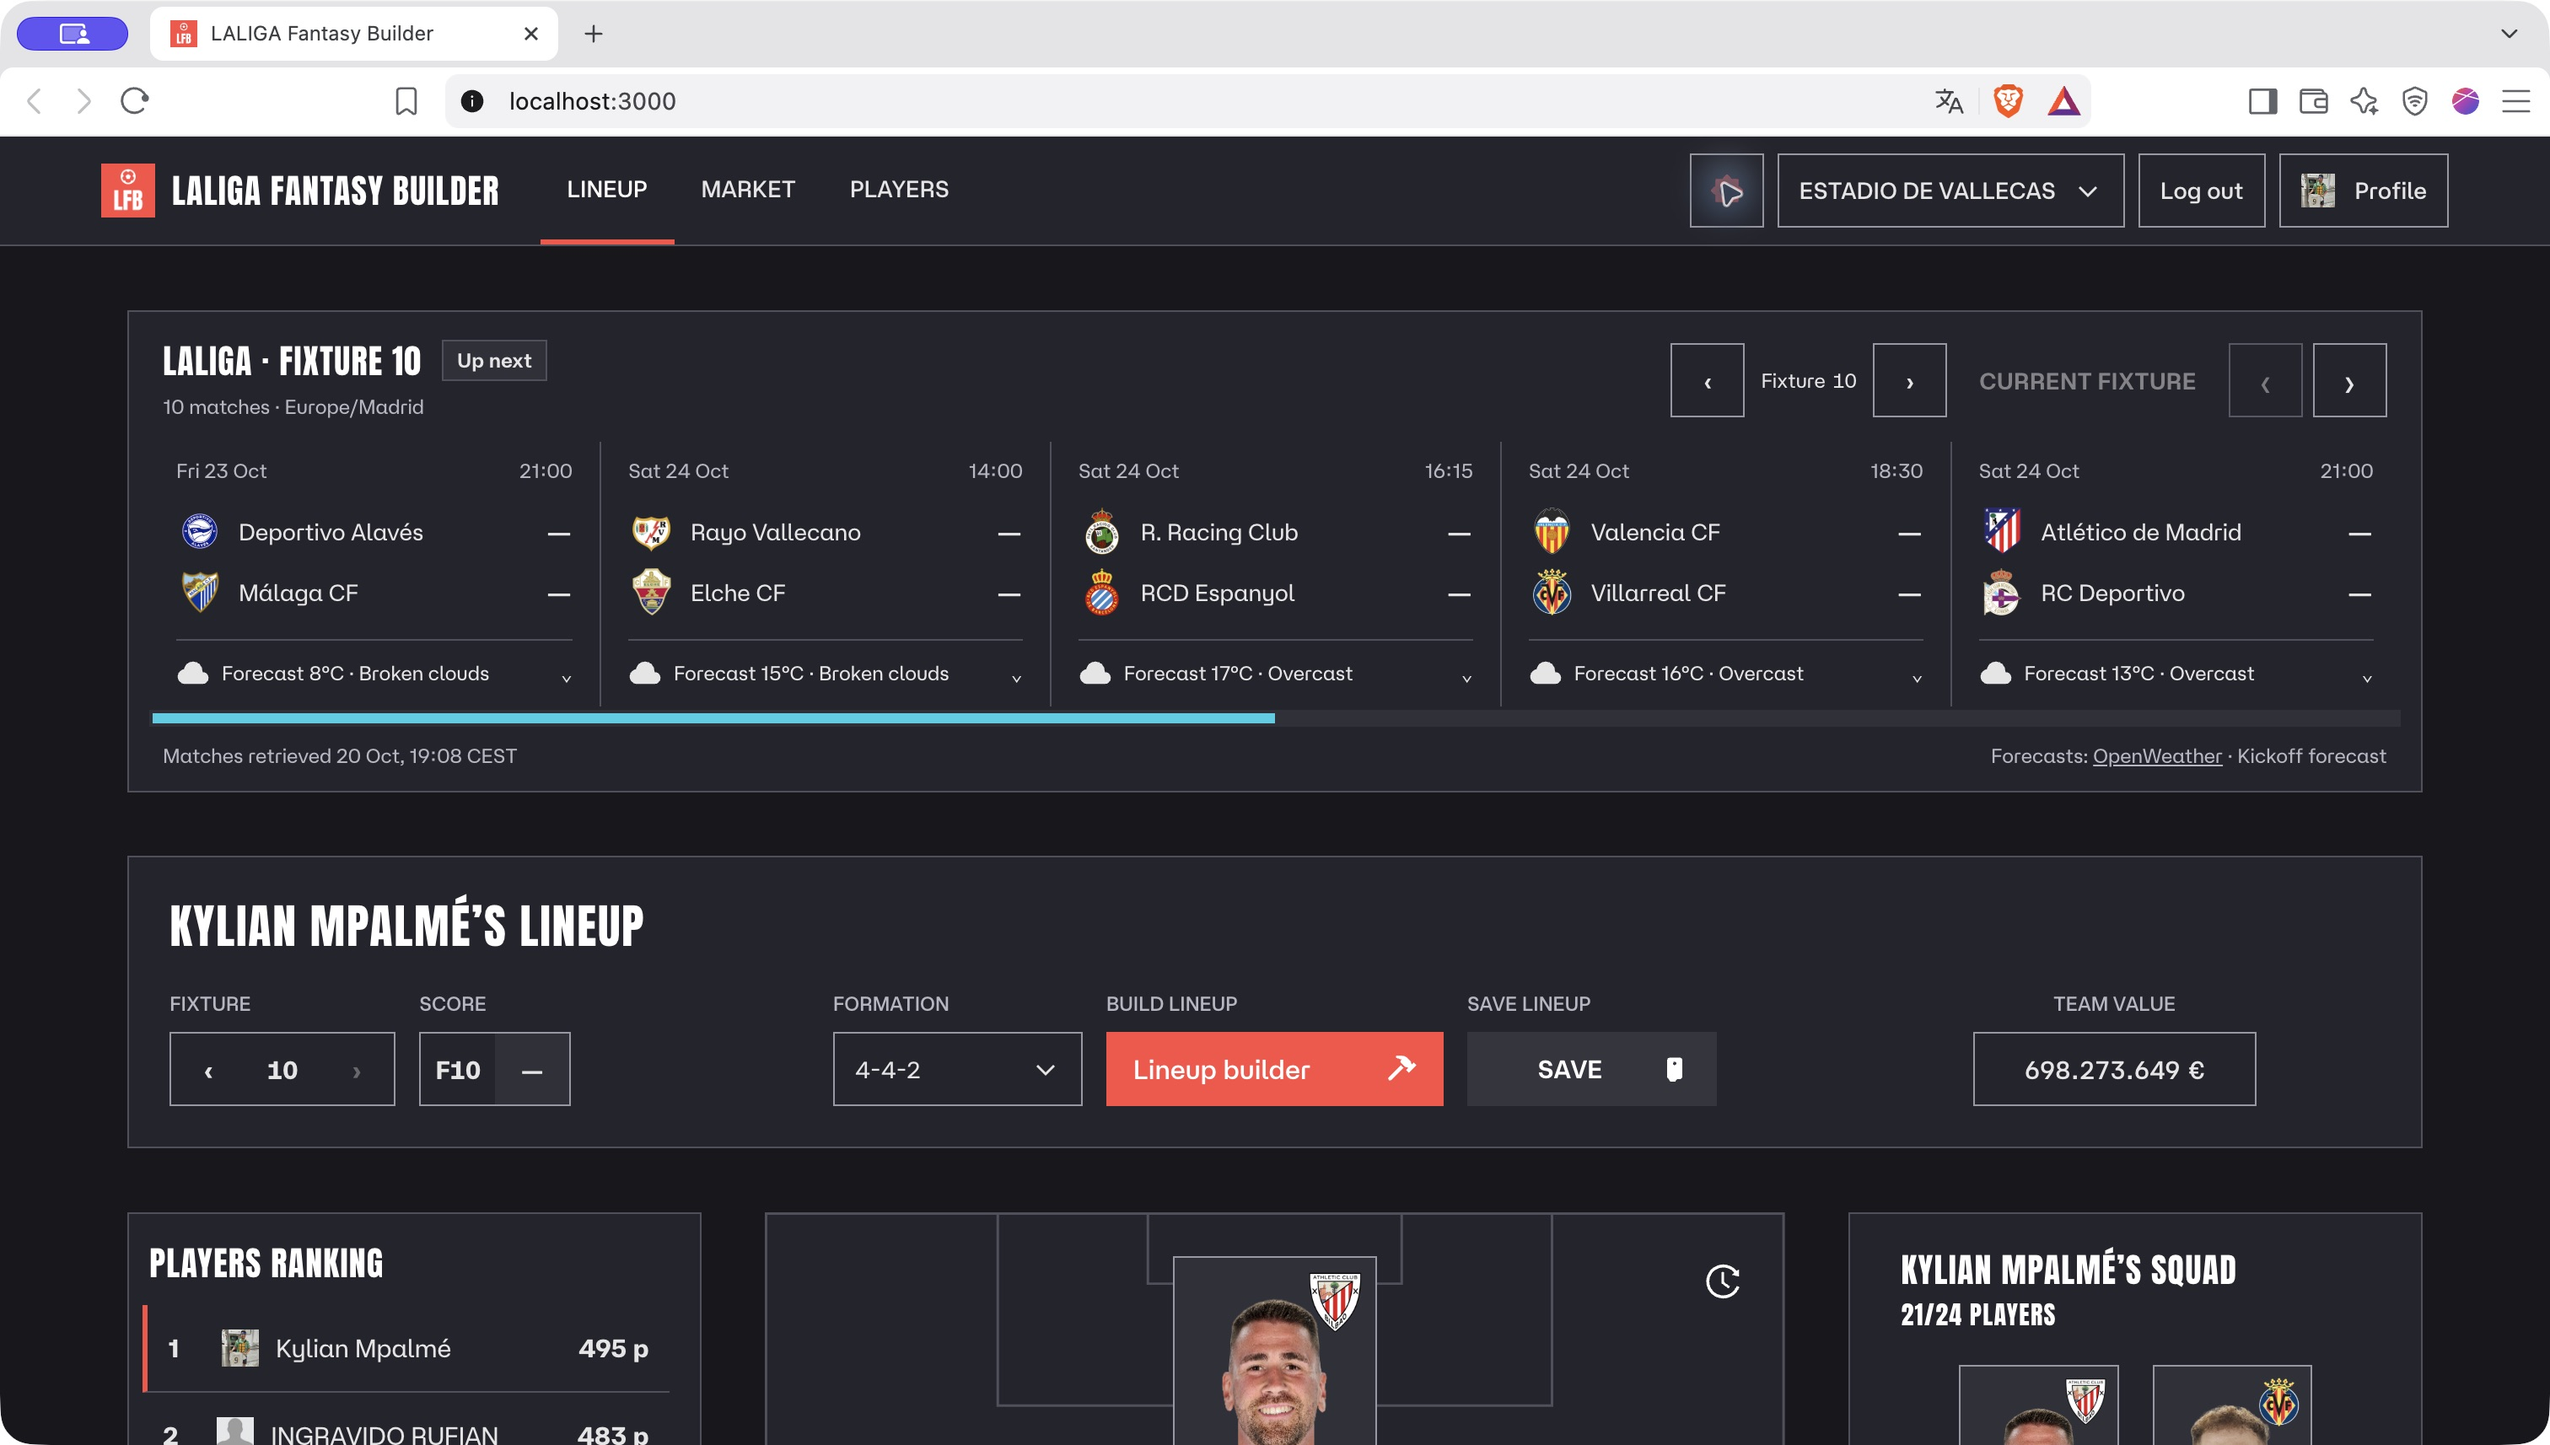
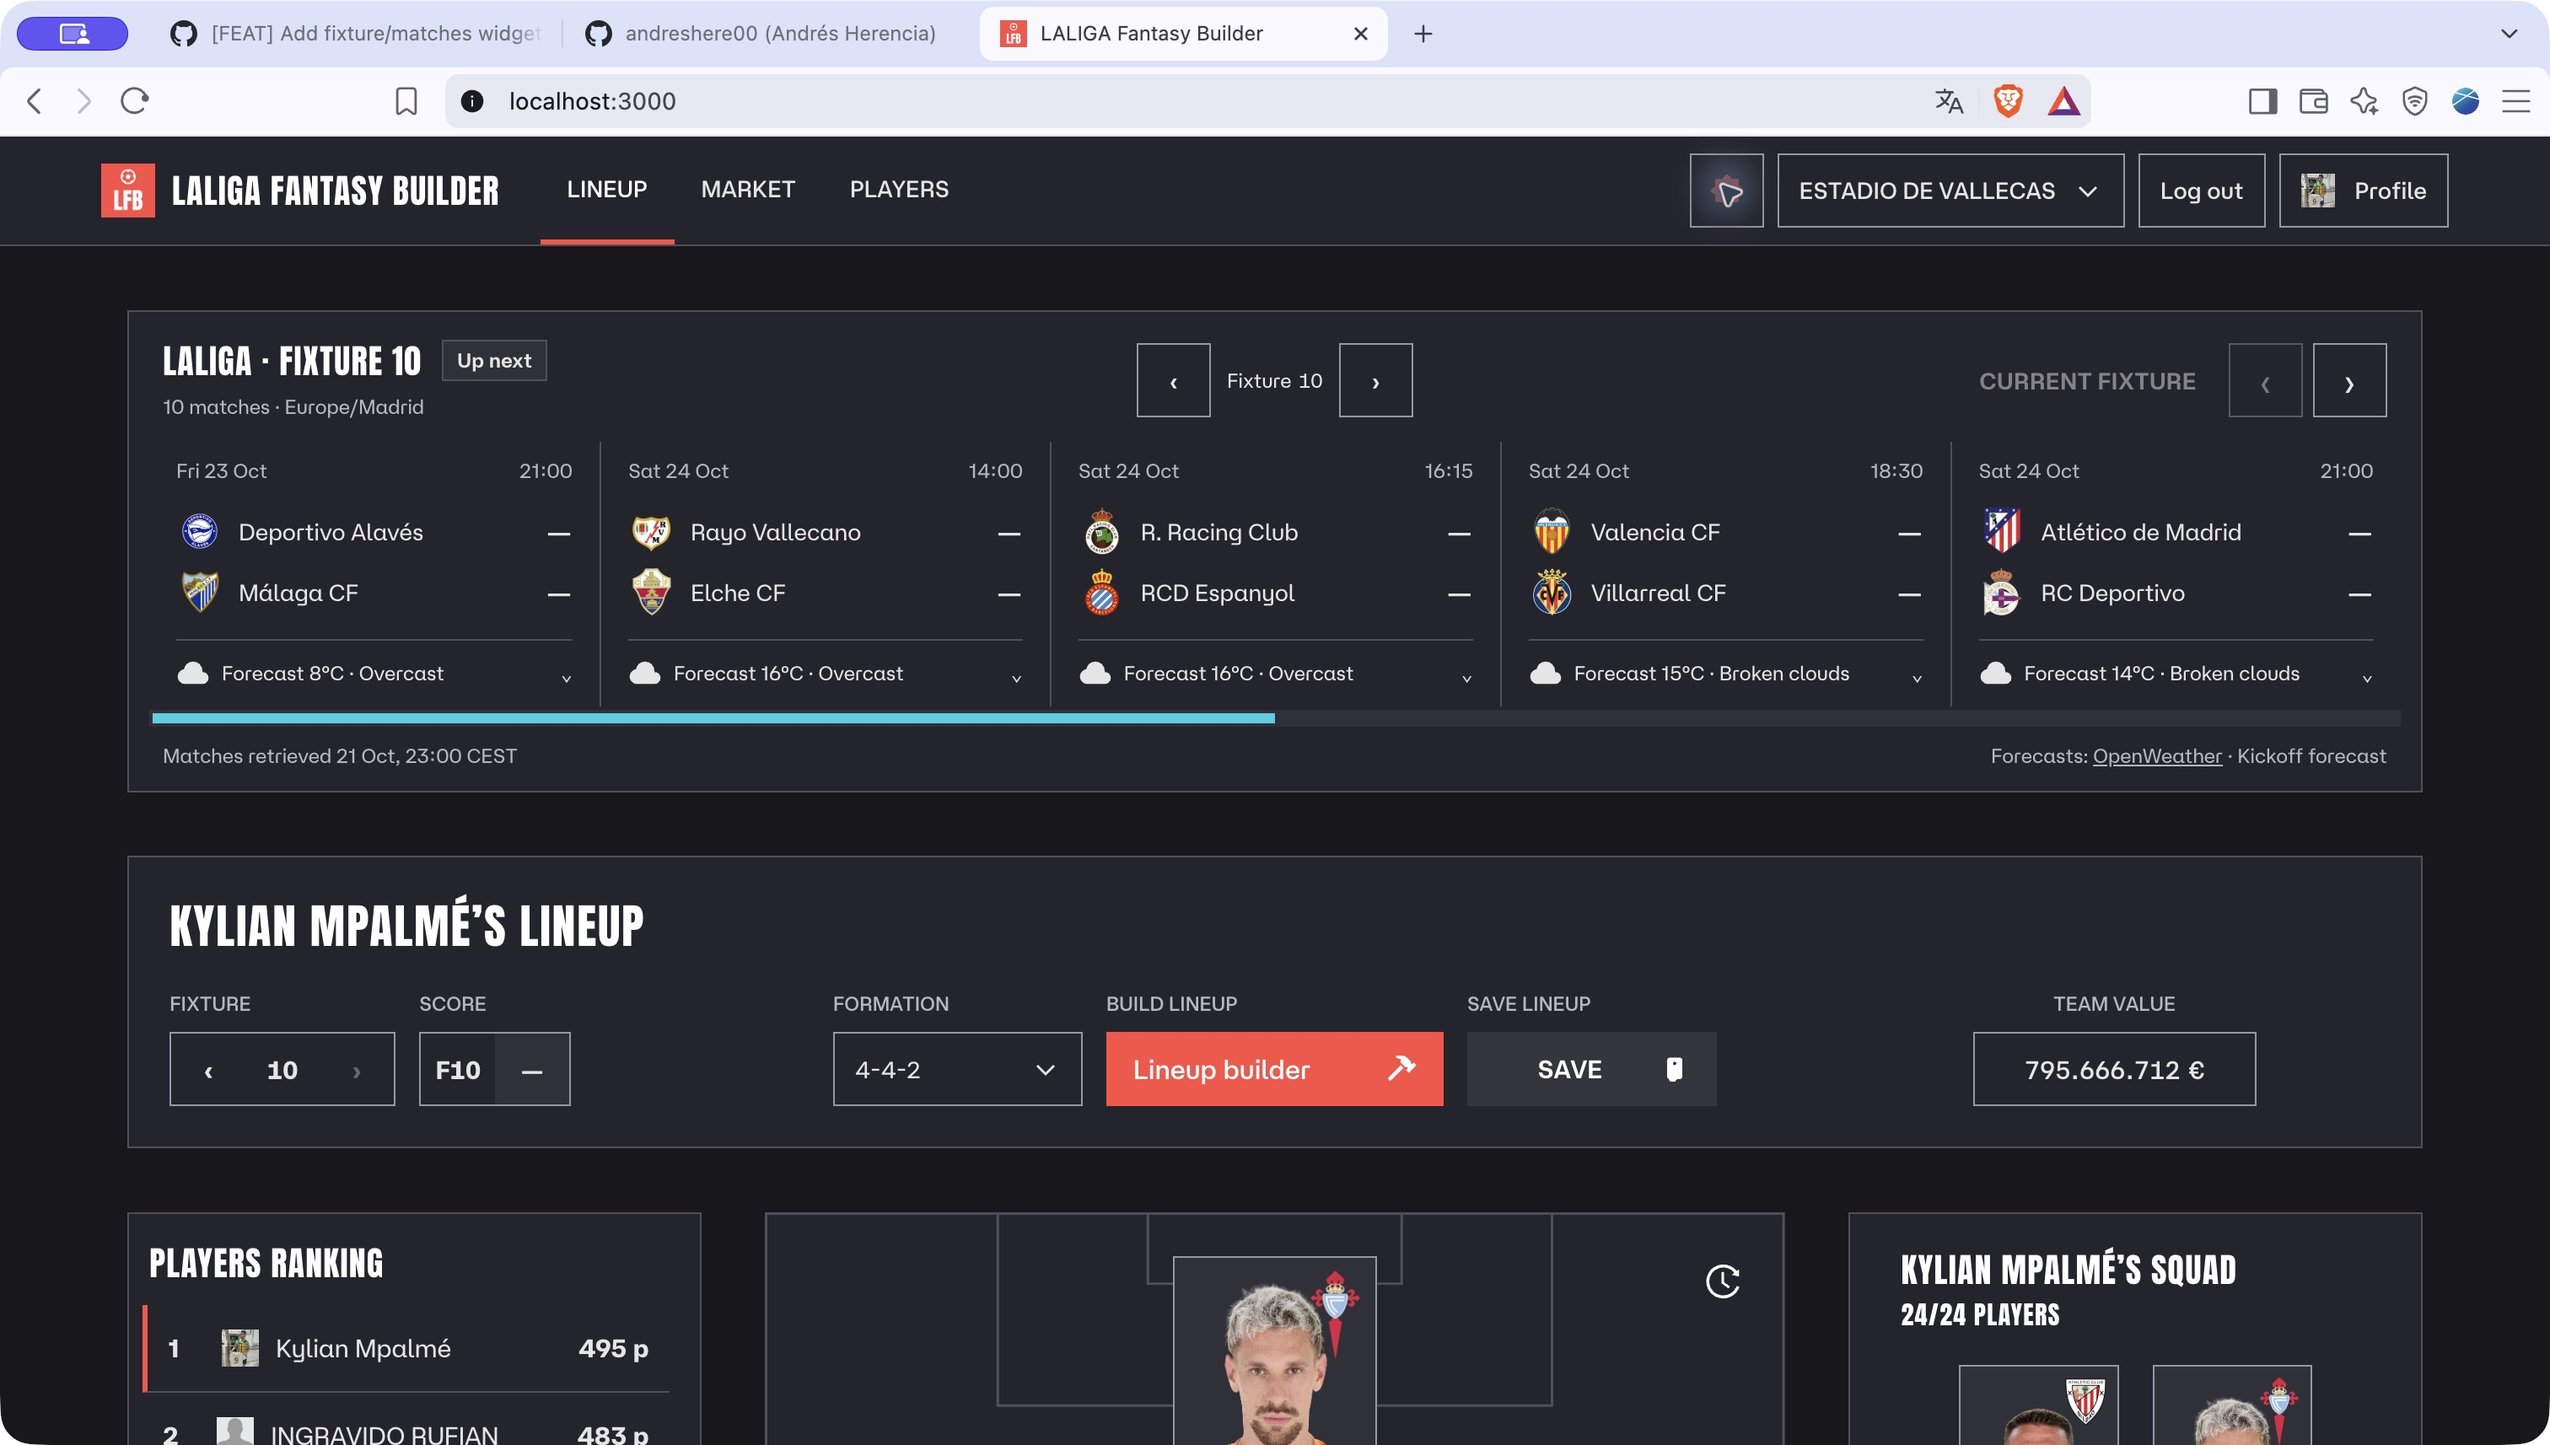
docs: refresh lineup screenshots to match current UI

diff --git a/docs/frontend.md b/docs/frontend.md
@@ -36,24 +36,27 @@ market and catalog tables, and the player profile's averages, form, match,
 market-value, Fantasy-data, and injury-history sections. Their values reflect
 the account and data available at capture time. The supplied desktop captures
 were taken on 19 October 2026; the lineup overview was refreshed directly from
-the running application on 20 October 2026. Synthetic demonstrations for other
+the running application on 21 October 2026. Synthetic demonstrations for other
 features are identified below. The product gallery is also embedded in
 the [project README](../README.md#screenshots).
 
 #### Lineup
 
-Captured directly from Brave at `http://localhost:3000/` on 20 October 2026
-(Europe/Madrid), using the existing authenticated session. The light and dark
+Captured directly from Brave at `http://localhost:3000/` on 21 October 2026
+(Europe/Madrid), using the authenticated local account. The light and dark
 views show fixture 10, actual pairings and kickoff times, expandable forecasts,
-and the lineup toolbar. The lower-page capture shows the actual starting XI,
-squad pagination, manager ranking, and LALIGA standings. These images are
-unmodified browser-window captures, without mocked responses or generated data.
+and the lineup toolbar. The full-page desktop capture includes the complete
+4-4-2 starting XI, squad pagination, manager ranking, and LALIGA standings.
+The overview and forecast images are browser-window captures; the full-page
+image uses Brave's full-size screenshot command at a 1512 CSS-pixel desktop width.
+The captures use actual application responses, without mocked or generated data,
+and are stored as JPEGs.
 
 ![Current lineup and upcoming fixtures with weather, light theme](images/screenshots/lineup-current-light.jpg)
 
 ![Current lineup and upcoming fixtures with weather, dark theme](images/screenshots/lineup-current-dark.jpg)
 
-![Actual lineup pitch, squad, manager ranking, and LALIGA standings](images/screenshots/lineup-current-squad.jpg)
+![Full lineup page with the 4-4-2 pitch, squad, manager ranking, and LALIGA standings](images/screenshots/lineup-current-squad.jpg)
 
 The builder captures below were supplied on 19 October 2026:
 
@@ -173,7 +176,7 @@ it is not observed current weather. Finished matches omit weather.
 
 The [current lineup captures above](#lineup) show this panel using the actual
 local session. The expanded forecast below shows actual provider values for
-Deportivo Alavés–Málaga CF captured on 20 October 2026:
+Deportivo Alavés–Málaga CF captured on 21 October 2026:
 
 ![Actual expanded kickoff forecast with rain, wind, and retrieval time](images/screenshots/lineup-current-forecast.jpg)
 

diff --git a/README.md b/README.md
@@ -59,8 +59,8 @@ data and user-confirmed writes with your linked account.
 ## Screenshots
 
 The lineup captures below were taken directly from the running local application
-on 20 October 2026, using the signed-in account and its actual data. They show
-the current fixture panel, forecasts, lineup controls, squad, and standings.
+on 21 October 2026 (Europe/Madrid), using the signed-in account and its actual data.
+They show the current fixture panel, forecasts, lineup controls, squad, and standings.
 Values reflect the captured session and can change. Other product captures were
 supplied on 19 October 2026 and remain next to their relevant features.
 
@@ -72,9 +72,14 @@ Upcoming matches, expandable weather forecasts, and the lineup toolbar:
 
 ![Current lineup with fixture 10 and weather forecasts, dark theme](docs/images/screenshots/lineup-current-dark.jpg)
 
-The actual starting XI, paginated squad, and LALIGA standings:
+Full-page desktop view with the current 4-4-2 starting XI, paginated squad,
+manager ranking, and LALIGA standings:
 
-![Current lineup pitch, squad, and standings](docs/images/screenshots/lineup-current-squad.jpg)
+![Full lineup page with the 4-4-2 pitch, squad, manager ranking, and LALIGA standings](docs/images/screenshots/lineup-current-squad.jpg)
+
+Expanded kickoff forecast with rain, wind, and retrieval time:
+
+![Expanded Deportivo Alavés–Málaga CF kickoff forecast](docs/images/screenshots/lineup-current-forecast.jpg)
 
 ![Lineup builder player scope, trade permissions, and mandatory players](docs/images/screenshots/lineup-builder-top.png)
 

diff --git a/docs/api/schema-validation-migration-plan.md b/docs/api/schema-validation-migration-plan.md
@@ -81,8 +81,7 @@ shared cross-language valid/invalid fixtures now enforce the reported regression
 and Pydantic wire serialization.
 
 Applied repository skills: [code review](../../.agents/skills/code-review/SKILL.md),
-[Python best practices](../../.agents/skills/coding-style/SKILL.md),
-[React frontend](../../.agents/skills/react-frontend/SKILL.md), and
+[frontend and backend best practices](../../.agents/skills/best-practices/SKILL.md), and
 [developing endpoints](../../.agents/skills/developing-endpoints/SKILL.md).
 Architecture, endpoint-development, proxy-pitfall, authentication, and domain guides
 inform the plan and its compatibility constraints.

diff --git a/docs/frontend-fixture-panel-implementation-plan.md b/docs/frontend-fixture-panel-implementation-plan.md
@@ -460,7 +460,9 @@ polling and failure-specific retry remain.
 
 Product captures now live beside the relevant features in the
 [frontend guide](frontend.md#lineup) and [project README](../README.md#lineup).
-They were taken from the real authenticated local app on 20 October 2026.
+They were refreshed from the real authenticated local app on 21 October 2026
+(Europe/Madrid), including light/dark overviews, expanded weather, and a full-page
+desktop view of the pitch, squad, and standings.
 The previous synthetic documentation captures have been removed.
 
 Validation after the expandable forecast change: production build and ESLint
